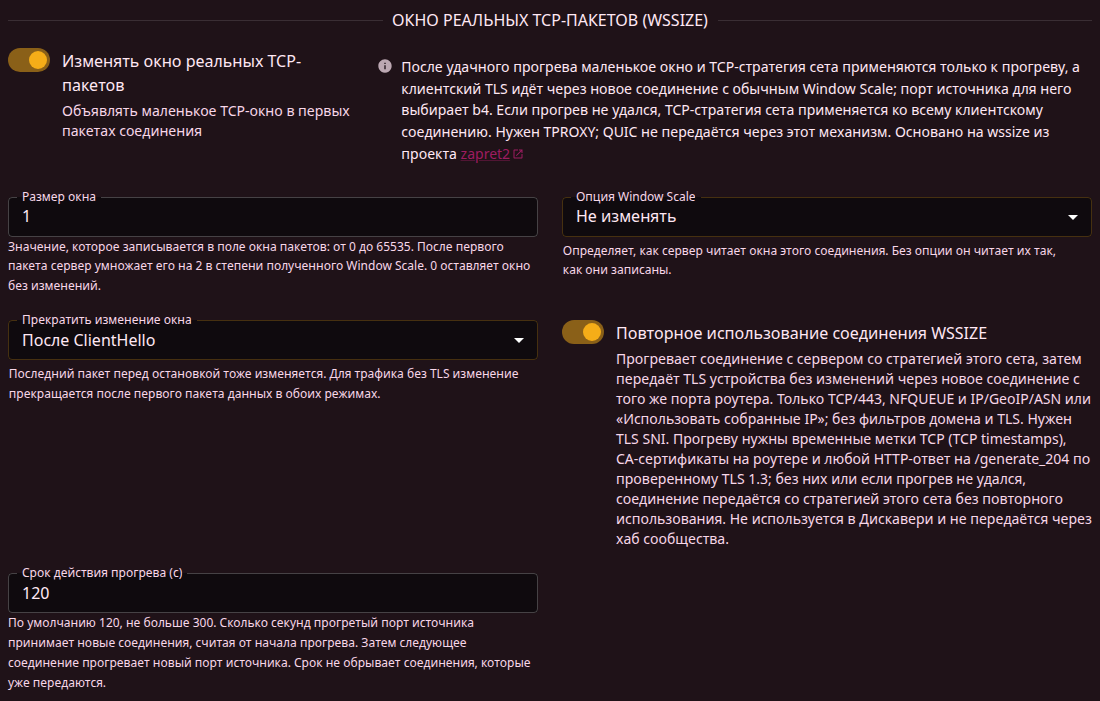
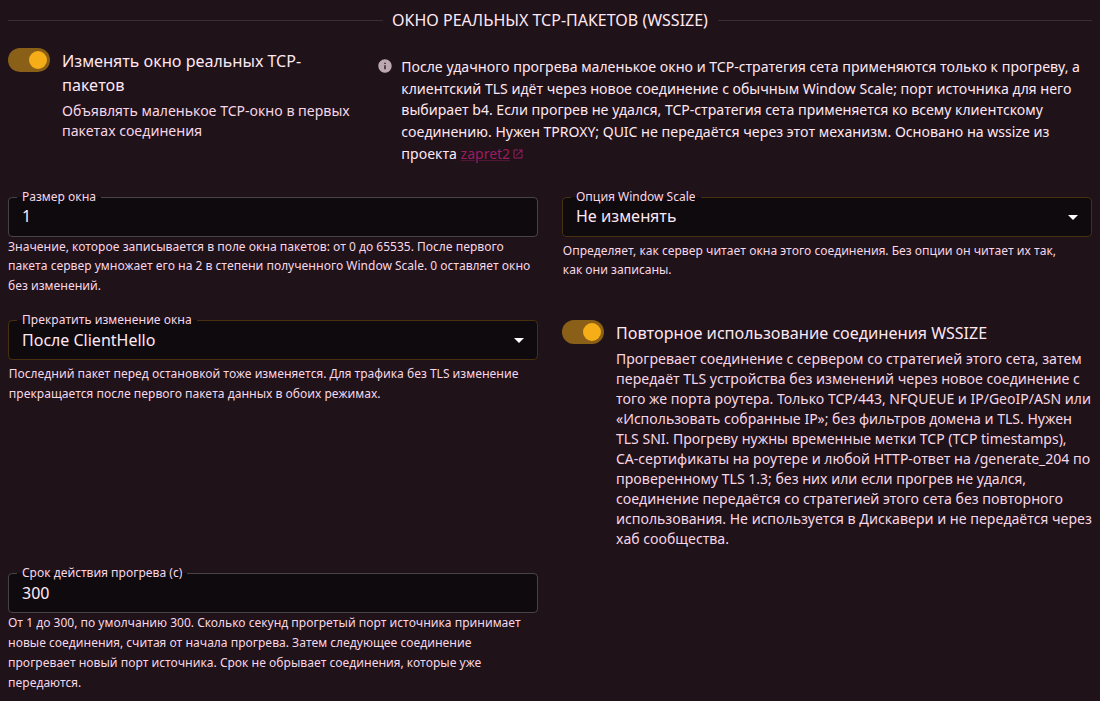
docs(sets): document the silent pass fallback and sequential Collect
The pages and the AI topics still described the reuse and Collect
behaviour from before the latest fixes.

The TCP General page, in English and Russian, now says that a device
that sends only its ClientHello over a warmed port and gets nothing
back within 5 seconds is sent again from an ordinary router port with
the set's strategy, labelled fallback, while reuse stays on for that
server. Warm validity defaults to 300. Collect counts the second
silent connection only when it opens after the first one's Detection
Timeout has run out, so connections opened together count once; the
capture internals page says such a connection is held, reset with the
others and still starts the count over when answered. The fallback row
on the Traffic page no longer says that every connection sent after a
good warm carries no label. Both screenshots of the Real TCP window
section are retaken with the new default and help text.

In topics.json, tcp.wssize_reuse.max_age_seconds now keeps a tuple only
when server data reached the client before it closed, and defines the
silent pass and its fallback. tcp.wssize_reuse.enabled no longer claims
that the client's bytes always go out after the fallback choice; a
few phrases there are shortened to stay within the 2800 byte cap.

The new TestWSReuseAgeTopicKeepsATupleOnlyWhenItsAnswerReachedTheClient
and TestWSReuseTopicsSayASilentPassFallsBackToTheSetsStrategy failed
against the previous topic text: the age topic still said a tuple was
[…]

Changed region(s): [[0.0, 0.8388, 0.4945, 0.9886]]

diff --git a/src/ai/topics_wsreuse_test.go b/src/ai/topics_wsreuse_test.go
@@ -80,6 +80,34 @@ func TestWSReuseAgeTopicStatesTheDefaultAndTheCap(t *testing.T) {
 	}
 }
 
+func TestWSReuseAgeTopicKeepsATupleOnlyWhenItsAnswerReachedTheClient(t *testing.T) {
+	facts := TopicFacts("tcp.wssize_reuse.max_age_seconds")
+	if !strings.Contains(facts, "a tuple whose last relayed connection passed no server data to the client before the client closed is dropped when that connection closes") {
+		t.Errorf("tcp.wssize_reuse.max_age_seconds does not say that a tuple is kept only when server data reached the client before it closed: %s", facts)
+	}
+	if strings.Contains(facts, "got no data from the server") {
+		t.Errorf("tcp.wssize_reuse.max_age_seconds still keeps a tuple on any data from the server, but server data read after the client left no longer keeps it: %s", facts)
+	}
+}
+
+func TestWSReuseTopicsSayASilentPassFallsBackToTheSetsStrategy(t *testing.T) {
+	age := TopicFacts("tcp.wssize_reuse.max_age_seconds")
+	for _, want := range []string{
+		"A silent pass is one whose client sent a lone ClientHello, without early data, and got no server data within 5 seconds:",
+		"b4 closes it, drops the tuple and relays that ClientHello over a new connection from an ordinary source port with the set's own TCP strategy, flagged fallback in Traffic",
+		"This is not remembered as a warm failure, so reuse stays on for that address.",
+		"A pass whose server closes without data is not relayed again.",
+	} {
+		if !strings.Contains(age, want) {
+			t.Errorf("tcp.wssize_reuse.max_age_seconds does not say %q: %s", want, age)
+		}
+	}
+	enabled := TopicFacts("tcp.wssize_reuse.enabled")
+	if !strings.Contains(enabled, "the client's bytes go out only after that choice, except on a silent pass (tcp.wssize_reuse.max_age_seconds).") {
+		t.Errorf("tcp.wssize_reuse.enabled does not point to the silent pass, whose ClientHello goes out before the fallback is chosen: %s", enabled)
+	}
+}
+
 func TestWSReuseTopicSaysAnyHTTPStatusWarms(t *testing.T) {
 	facts := TopicFacts("tcp.wssize_reuse.enabled")
 	for _, want := range []string{

diff --git a/docs/i18n/ru/docusaurus-plugin-content-docs/current/sets/tcp/general.md b/docs/i18n/ru/docusaurus-plugin-content-docs/current/sets/tcp/general.md
@@ -63,7 +63,7 @@ description: Подвкладка «Основные» вкладки TCP сет
 | Поле | Что делает | По умолчанию |
 | --- | --- | --- |
 | **Повторное использование соединения WSSIZE** | Включает этот режим. Виден, пока включено **Изменять окно реальных TCP-пакетов**, и выключается вместе с ним. | Выкл. |
-| **Срок действия прогрева (с)** | Сколько секунд прогретый порт роутера принимает новые соединения, считая от начала прогрева, от 1 до 300. Затем следующее соединение прогревает новый порт. Соединения, которые уже передаются, срок не обрывает. | `120` |
+| **Срок действия прогрева (с)** | Сколько секунд прогретый порт роутера принимает новые соединения, считая от начала прогрева, от 1 до 300. Затем следующее соединение прогревает новый порт. Соединения, которые уже передаются, срок не обрывает. | `300` |
 
 Включённый сет с этим режимом сохраняется, только если выполнены все условия ниже. Редактор называет каждое нарушенное условие.
 
@@ -84,7 +84,7 @@ description: Подвкладка «Основные» вкладки TCP сет
 
 Запуски Дискавери этот режим не используют.
 
-Если прогрев не удался или пропущен, если передача после удачного прогрева не удалась или если нет свободного слота или порта прогрева, b4 всё равно передаёт соединение устройства: с обычного порта роутера и со стратегией TCP сета на всём соединении, как без этого режима. Страница [Трафик](../../connections.md) отмечает такое соединение меткой `резерв`. Прогрев не удаётся, если сервер недоступен, не принимает TLS 1.3, показывает сертификат, которому роутер не доверяет, не присылает временных меток TCP или не даёт полного ответа. Он пропускается, пока на роутере нет временных меток TCP или корневых сертификатов. Он также пропускается некоторое время после неудачного прогрева к тому же серверу с тем же именем сайта. Сохранённое изменение настроек отменяет это ожидание.
+Если прогрев не удался или пропущен, если передача после удачного прогрева не удалась или если нет свободного слота или порта прогрева, b4 всё равно передаёт соединение устройства: с обычного порта роутера и со стратегией TCP сета на всём соединении, как без этого режима. То же происходит, когда устройство отправляет через прогретый порт только ClientHello, а сервер ничего не присылает в ответ в течение 5 секунд: b4 закрывает это соединение, отказывается от порта и отправляет ClientHello заново с обычного порта роутера. Для этого сервера режим остаётся включённым. Страница [Трафик](../../connections.md) отмечает такое соединение меткой `резерв`. Прогрев не удаётся, если сервер недоступен, не принимает TLS 1.3, показывает сертификат, которому роутер не доверяет, не присылает временных меток TCP или не даёт полного ответа. Он пропускается, пока на роутере нет временных меток TCP или корневых сертификатов. Он также пропускается некоторое время после неудачного прогрева к тому же серверу с тем же именем сайта. Сохранённое изменение настроек отменяет это ожидание.
 
 ## Дублирование пакетов
 
@@ -112,7 +112,7 @@ description: Подвкладка «Основные» вкладки TCP сет
 
 **Собирать обнаруженные IP** находит адреса, на которых зависает TLS-рукопожатие, и добавляет их в общий пул, [собранные IP](../targets.md#collected-ips). Соединения с этими адресами получают сеты с включённым **Использовать собранные IP**, каждый со своей стратегией или маршрутом. В отличие от **Блокировать обнаруженные IP**, сбор не банит адреса и не меняет ни DNS-ответы, ни QUIC.
 
-Адрес добавляется в пул после двух соединений с ним подряд на один и тот же порт, которые устанавливают TCP, но не получают ответа на ClientHello за время из поля **Таймаут обнаружения**. Между первым и вторым соединением должно пройти не больше, чем задано в поле **Интервал перепроверки (секунды)** в [Настройки > Основные](../../settings/core.md#ip-block-detection). Соединение, которое не установило TCP, не засчитывается, а соединение, на которое сервер ответил, начинает счёт заново.
+Адрес добавляется в пул после двух соединений с ним подряд на один и тот же порт, которые устанавливают TCP, но не получают ответа на ClientHello за время из поля **Таймаут обнаружения**. Второе засчитывается, только если открыто после того, как истёк **Таймаут обнаружения** первого: соединения, открытые одновременно, засчитываются один раз. Между первым и вторым соединением должно пройти не больше, чем задано в поле **Интервал перепроверки (секунды)** в [Настройки > Основные](../../settings/core.md#ip-block-detection). Соединение, которое не установило TCP, не засчитывается, а соединение, на которое сервер ответил, начинает счёт заново.
 
 b4 добавляет адрес, только если следующее соединение с ним получил бы сет с **Использовать собранные IP**, см. [Собранные IP](../targets.md#collected-ips). Затем b4 сбрасывает соединения, которые ещё ждут ответа от этого адреса, чтобы повторные попытки устройства дошли до этого сета. Страница [Трафик](../../connections.md) отмечает такие соединения меткой `сбор`.
 

diff --git a/docs/docs/sets/tcp/general.md b/docs/docs/sets/tcp/general.md
@@ -63,7 +63,7 @@ With **Reuse WSSIZE connection** on, the set's TCP connections to port 443 go ou
 | Field | What it does | Default |
 | --- | --- | --- |
 | **Reuse WSSIZE connection** | Turns reuse on. Shown while **Rewrite the real TCP window** is on, and turned off with it. | Off |
-| **Warm validity (seconds)** | How long a warmed router port takes new connections, counted from the start of its warm, 1 to 300. After that, the next connection warms a new port. The validity never cuts a connection that is already relayed. | `120` |
+| **Warm validity (seconds)** | How long a warmed router port takes new connections, counted from the start of its warm, 1 to 300. After that, the next connection warms a new port. The validity never cuts a connection that is already relayed. | `300` |
 
 An enabled set with reuse on is saved only when it meets every condition below. The editor names each one the set breaks.
 
@@ -84,7 +84,7 @@ Reuse does nothing, and the set's connections get its usual strategy, while one 
 
 Discovery runs leave reuse out.
 
-When the warm fails or is skipped, when the relay after a good warm fails, or when no warm slot or port is free, b4 still sends the device's connection: from an ordinary router port, with the set's TCP strategy on the whole connection, as without reuse. The [Traffic](../../connections.md) page labels such a connection `fallback`. A warm fails when the server cannot be reached, refuses TLS 1.3, shows a certificate the router does not trust, sends no TCP timestamps or gives no complete answer. It is skipped while the router lacks TCP timestamps or root certificates. It is also skipped for a while after a warm to the same server and site name failed. A saved change to the settings ends that wait.
+When the warm fails or is skipped, when the relay after a good warm fails, or when no warm slot or port is free, b4 still sends the device's connection: from an ordinary router port, with the set's TCP strategy on the whole connection, as without reuse. The same happens when a device sends only its ClientHello over a warmed port and the server sends nothing back within 5 seconds: b4 closes that connection, drops the port and sends the ClientHello again from an ordinary router port. Reuse stays on for that server. The [Traffic](../../connections.md) page labels such a connection `fallback`. A warm fails when the server cannot be reached, refuses TLS 1.3, shows a certificate the router does not trust, sends no TCP timestamps or gives no complete answer. It is skipped while the router lacks TCP timestamps or root certificates. It is also skipped for a while after a warm to the same server and site name failed. A saved change to the settings ends that wait.
 
 ## Packet Duplication {#packet-duplication}
 
@@ -112,7 +112,7 @@ Some server addresses are blocked at the IP level. A CDN often answers DNS with 
 
 **Collect detected IPs** finds addresses where the TLS handshake stalls and adds them to one pool, the [collected IPs](../targets.md#collected-ips). Sets with **Use collected IPs** on take the connections to these addresses, each with its own strategy or route. Unlike **Block detected IPs**, collecting bans no address and changes no DNS answers or QUIC.
 
-An address is collected after two connections to it in a row, on the same port, connect over TCP and then get no answer to the ClientHello within the **Detection Timeout**. The second must come within the **Retest interval (seconds)** under [Settings > Core](../../settings/core.md#ip-block-detection). A connection that does not connect over TCP does not count, and a connection the server answers starts the count over.
+An address is collected after two connections to it in a row, on the same port, connect over TCP and then get no answer to the ClientHello within the **Detection Timeout**. The second counts only when it opens after the **Detection Timeout** of the first has run out: connections opened at the same time count once. It must also come within the **Retest interval (seconds)** under [Settings > Core](../../settings/core.md#ip-block-detection). A connection that does not connect over TCP does not count, and a connection the server answers starts the count over.
 
 b4 collects the address only when a set with **Use collected IPs** would take the next connection to it, see [Collected IPs](../targets.md#collected-ips). It then resets the connections still waiting on the address, so that the device's retries reach that set. The [Traffic](../../connections.md) page labels these connections `collect`.
 

diff --git a/docs/i18n/ru/docusaurus-plugin-content-docs/current/connections.md b/docs/i18n/ru/docusaurus-plugin-content-docs/current/connections.md
@@ -77,7 +77,7 @@ b4 видит только первые пакеты каждого соедин
 | `block` | Пакет заблокировал [сет блокировки](sets/blocking.md) |
 | `voice` | Пакет звонка, пропущенный без изменений: сетом, у которого в поле **Звонки** выбрано **Пропускать начало звонков**, или [сетом, который обрабатывает только звонки](sets/udp.md#protocol-selection), как следующий пакет забранного им звонка. Сам пакет, который забрал такой сет, метку `voice` не получает, а в столбце **Сет** у него указан этот сет |
 | `proxy` | Соединение пришло через [SOCKS5-прокси](settings/core.md#socks5-proxy) b4 |
-| `резерв` | [Повторное использование соединения WSSIZE](sets/tcp/general.md#warm-connection) не сработало: b4 передал соединение устройства с обычного порта роутера, со стратегией TCP сета на всём соединении. Соединение, переданное после удачного прогрева, метки не получает |
+| `резерв` | [Повторное использование соединения WSSIZE](sets/tcp/general.md#warm-connection) не сработало: b4 передал соединение устройства с обычного порта роутера, со стратегией TCP сета на всём соединении. Соединение, которое остаётся на прогретом порту, метки не получает |
 | Значок Telegram | Соединение [MTProto-прокси](telegram/mtproto-proxy.md) b4, с именем секрета |
 | Значок Telegram с надписью **Мост Telegram** | Соединение, переправленное мостом [Telegram через WebSocket](telegram/websocket-bridge.md) |
 | `doh`, `forward`, `pin`, `sinkhole` и другие | Решение b4 по DNS-запросу, см. [DNS для сетов](dns.md#как-посмотреть-результат) |

diff --git a/docs/docs/connections.md b/docs/docs/connections.md
@@ -77,7 +77,7 @@ Labels mark special cases: next to the domain in **Aggregated** mode, and next t
 | `block` | A [block set](sets/blocking.md) blocked the packet |
 | `voice` | A call packet passed through untouched: by a set with **Calls** on **Pass call setup**, or by a [set that handles only calls](sets/udp.md#protocol-selection), as a later packet of a call the set took. The packet such a set takes itself carries no `voice` label and shows that set in the **Set** column |
 | `proxy` | The connection came through b4's [SOCKS5 proxy](settings/core.md#socks5-proxy) |
-| `fallback` | [Reuse WSSIZE connection](sets/tcp/general.md#warm-connection) fell back: b4 sent the device's connection from an ordinary router port, with the set's TCP strategy on the whole connection. A connection sent after a good warm carries no label |
+| `fallback` | [Reuse WSSIZE connection](sets/tcp/general.md#warm-connection) fell back: b4 sent the device's connection from an ordinary router port, with the set's TCP strategy on the whole connection. A connection that stays on the warmed port carries no label |
 | Telegram icon | A connection of b4's [MTProto proxy](telegram/mtproto-proxy.md), with the secret's name |
 | Telegram icon with **Telegram bridge** | A connection relayed by [Telegram over WebSocket](telegram/websocket-bridge.md) |
 | `doh`, `forward`, `pin`, `sinkhole` and others | What b4 did with a DNS query, see [DNS for sets](dns.md#reading-the-result) |

diff --git a/docs/docs/internals/capture.md b/docs/docs/internals/capture.md
@@ -115,6 +115,8 @@ The drop set holds a connection by its addresses and ports. A new QUIC connectio
 
 b4 starts to watch a connection of a Collect set at its ClientHello, when it knows where the ClientHello ends and conntrack holds an established entry with packet counters for the connection. At the **Detection Timeout** the connection counts as silent when it is still the same established entry, the server has acknowledged the whole ClientHello and the reply counters show no data from the server since then. Acknowledgements without data do not count as an answer, and neither does a SYN-ACK the server sends again. Server data, a closed or replaced entry or counters b4 cannot read end the watch without a count. b4 never watches the connections of **Reuse WSSIZE connection** that it opens itself.
 
+A silent connection whose ClientHello came before the **Detection Timeout** of the last counted connection to the same address and port had run out is not counted: the two ran at the same time. b4 holds it as long as a counted one and resets it with the others when the address is collected. A server answer on it starts the count over.
+
 | Item | Value |
 | --- | --- |
 | How long b4 holds the first silent connection, to reset it with the second | Up to 2 minutes past its **Detection Timeout** |
